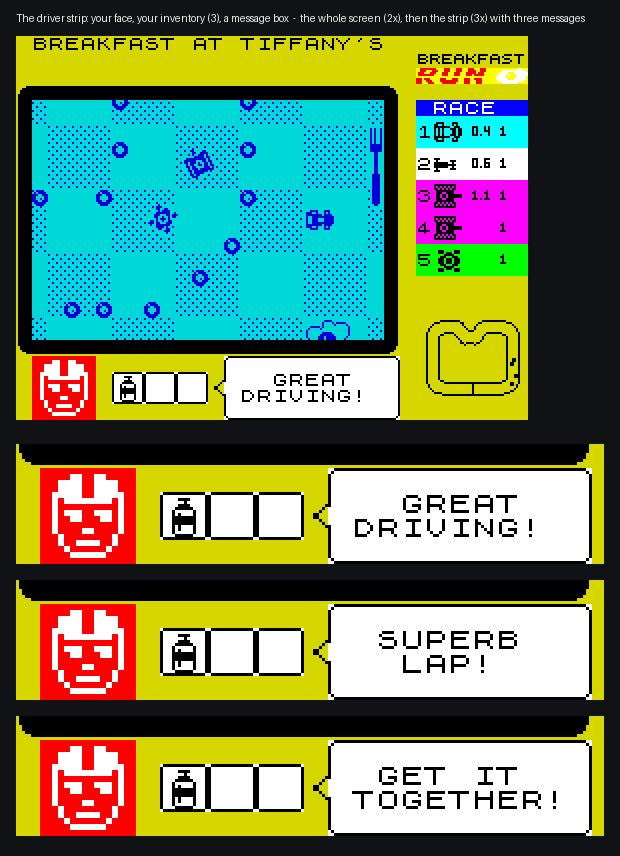
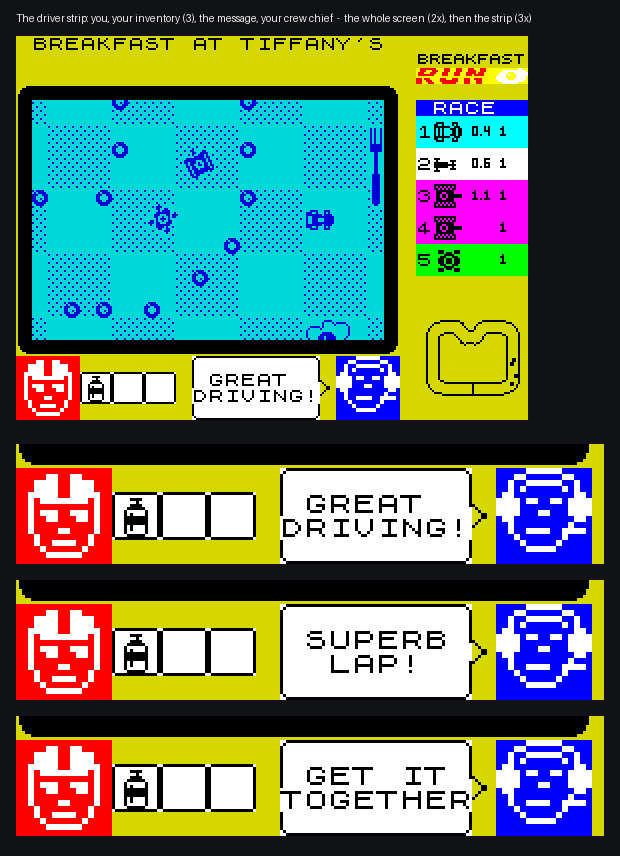
Mock-up: the driver strip with the crew chief on the right
Claude-Session: https://claude.ai/code/session_01476U897R8mVFSH3iYyydqW

diff --git a/tools/make_strip_mockups.py b/tools/make_strip_mockups.py
@@ -1,7 +1,8 @@
 """Mock-up: the driver strip under the window (Grant, 10 Nov 2026): the LAP / TIME /
 BEST lines go; in their place your face on the left, your inventory (3 slots - you
 start with one NOS canister), and a message box ("GREAT DRIVING!" when you
-overtake, "SUPERB LAP!", "GET IT TOGETHER!" when you hit the O's). Drawn on a real
+overtake, "SUPERB LAP!", "GET IT TOGETHER" when you hit the O's) - spoken by your
+crew chief on the right (Grant: the messages come from the pits). Drawn on a real
 race screen (docs/design/mock_screen.bin, from the game) with the Spectrum's own colours
 and ROM letters. Writes docs/design/driver_strip.png."""
 import os, re
@@ -43,50 +44,71 @@ NOS = ["....XXXX....",      # valve handle
        "..X.X....X..",
        "..X......X..",
        "...XXXXXX..."]
+CREW = [".....######.....",    # the crew chief: a headset - the band over his
+        "...##......##...",    # head, big ear cups, the microphone at his mouth
+        "..#..######..#..",
+        "..#.#......#.#..",
+        ".##..........##.",
+        "####.##..##.####",
+        "####........####",
+        "####...##...####",
+        ".##..........##.",
+        "..#.........#...",
+        "..#..####..####.",
+        "...#.......#....",
+        "....#.....#.....",
+        ".....#####......",
+        "................",
+        "................"]
 def text(bits, s, col, row):
     for i, ch in enumerate(s):
         g = font[(ord(ch) - 32) * 8:(ord(ch) - 32) * 8 + 8]
         for j in range(8):
             bits[row * 8 + j, (col + i) * 8:(col + i + 1) * 8] = np.unpackbits(np.array([g[j]], np.uint8))
+def face2x(bits, art, x0):
+    for y in range(16):
+        for x in range(16):
+            if art[y][x] in 'X#': bits[160 + 2 * y:162 + 2 * y, x0 + 2 * x:x0 + 2 * x + 2] = 1
 def strip(msg):
     bits, attr = load()
     bits[160:192, 0:192] = 0                       # the old LAP / TIME / BEST lines
     for r in range(20, 24):
         for c in range(24): attr[r * 32 + c] = 0x30
-    for y in range(16):                            # your face, twice size, on your red
-        for x in range(16):
-            if YOU[y][x] == 'X': bits[160 + 2 * y:162 + 2 * y, 8 + 2 * x:10 + 2 * x] = 1
+    face2x(bits, YOU, 0)                           # you, twice size, on your red: cols 0-3
     for r in range(20, 24):
-        for c in range(1, 5): attr[r * 32 + c] = 0x57
-    for k in range(3):                             # the inventory: 3 slots, white, framed
-        x0 = 48 + k * 16
+        for c in range(0, 4): attr[r * 32 + c] = 0x57
+    for k in range(3):                             # the inventory: 3 slots, cols 4-9
+        x0 = 32 + k * 16
         for r in (21, 22):
-            for c in (6 + 2 * k, 7 + 2 * k): attr[r * 32 + c] = 0x78
+            for c in (4 + 2 * k, 5 + 2 * k): attr[r * 32 + c] = 0x78
         bits[168, x0 + 1:x0 + 15] = 1; bits[183, x0 + 1:x0 + 15] = 1
         bits[169:183, x0] = 1; bits[169:183, x0 + 15] = 1
     for y, row in enumerate(NOS):                  # slot 1: the NOS canister you start with
         for x, v in enumerate(row):
-            if v == 'X': bits[169 + 1 + y, 48 + 2 + x] = 1
-    x0, x1, y0, y1 = 104, 191, 160, 191            # the message box: white, rounded
+            if v == 'X': bits[169 + 1 + y, 32 + 2 + x] = 1
+    x0, x1, y0, y1 = 88, 151, 160, 191             # the message box, cols 11-18: white, rounded
     for r in range(20, 24):
-        for c in range(13, 24): attr[r * 32 + c] = 0x78
+        for c in range(11, 19): attr[r * 32 + c] = 0x78
     bits[y0, x0 + 2:x1 - 1] = 1; bits[y1, x0 + 2:x1 - 1] = 1
     bits[y0 + 2:y1 - 1, x0] = 1; bits[y0 + 2:y1 - 1, x1] = 1
     for (x, y) in ((x0 + 1, y0 + 1), (x1 - 1, y0 + 1), (x0 + 1, y1 - 1), (x1 - 1, y1 - 1)): bits[y, x] = 1
-    bits[y0 + 13:y0 + 19, x0] = 0                  # a speech tail, pointing back at you
-    for i in range(4):                             # (wide at the box, a point at the left)
-        bits[y0 + 12 + i, x0 - 1 - i] = 1; bits[y0 + 19 - i, x0 - 1 - i] = 1
-    bits[y0 + 15:y0 + 17, x0 - 5] = 1
-    for i, line in enumerate(msg): text(bits, line, 14 + (9 - len(line)) // 2, 21 + i)
+    bits[y0 + 13:y0 + 19, x1] = 0                  # a speech tail out to the crew chief
+    for i in range(4):
+        bits[y0 + 12 + i, x1 + 1 + i] = 1; bits[y0 + 19 - i, x1 + 1 + i] = 1
+    bits[y0 + 15:y0 + 17, x1 + 5] = 1
+    face2x(bits, CREW, 160)                        # the crew chief, cols 20-23, on blue
+    for r in range(20, 24):
+        for c in range(20, 24): attr[r * 32 + c] = 0x4F
+    for i, line in enumerate(msg): text(bits, line, 11 + (8 - len(line)) // 2, 21 + i)
     return bits, attr
-MSGS = [('GREAT', 'DRIVING!'), ('SUPERB', 'LAP!'), ('GET IT', 'TOGETHER!')]
+MSGS = [('GREAT', 'DRIVING!'), ('SUPERB', 'LAP!'), ('GET IT', 'TOGETHER')]
 b, a = strip(MSGS[0])
 full = render(b, a, 2)
 strips = [render(*strip(m), 3).crop((0, 152 * 3, 196 * 3, 192 * 3)) for m in MSGS]
 W = max(full.width, strips[0].width) + 32
 H = 40 + full.height + 24 + sum(s.height + 16 for s in strips)
 out = Image.new('RGB', (W, H), (17, 18, 22)); d = ImageDraw.Draw(out); fnt = ImageFont.load_default()
-d.text((16, 12), 'The driver strip: your face, your inventory (3), a message box  -  the whole screen (2x), then the strip (3x) with three messages', fill=(236, 235, 230), font=fnt)
+d.text((16, 12), 'The driver strip: you, your inventory (3), the message, your crew chief  -  the whole screen (2x), then the strip (3x)', fill=(236, 235, 230), font=fnt)
 out.paste(full, (16, 36)); y = 36 + full.height + 24
 for s in strips: out.paste(s, (16, y)); y += s.height + 16
 o = os.path.join(ROOT, 'docs', 'design', 'driver_strip.png'); out.save(o); print('wrote', os.path.normpath(o))

diff --git a/PROJECT-LOG.md b/PROJECT-LOG.md
@@ -640,3 +640,6 @@ Authoritative log for this workstream (house rule 5.2). Newest at the bottom. Ti
   screen: docs/design/driver_strip.png (tools/make_strip_mockups.py; ROM letters read from the
   emulator's ROM, not kept in the repo). Face twice size on red; 3 white framed slots, the NOS in
   the first; a white rounded box with a speech tail back at the face, 2 lines of 9 letters.
+- Grant: the messages come from the pits - a crew chief on the right of the message. Re-laid in 24
+  columns: you (cols 0-3, red), inventory (4-9), the message box (11-18, 8 letters a line) with its
+  tail out to the crew chief (20-23, white on blue: a headset - band, ear cups, microphone).
